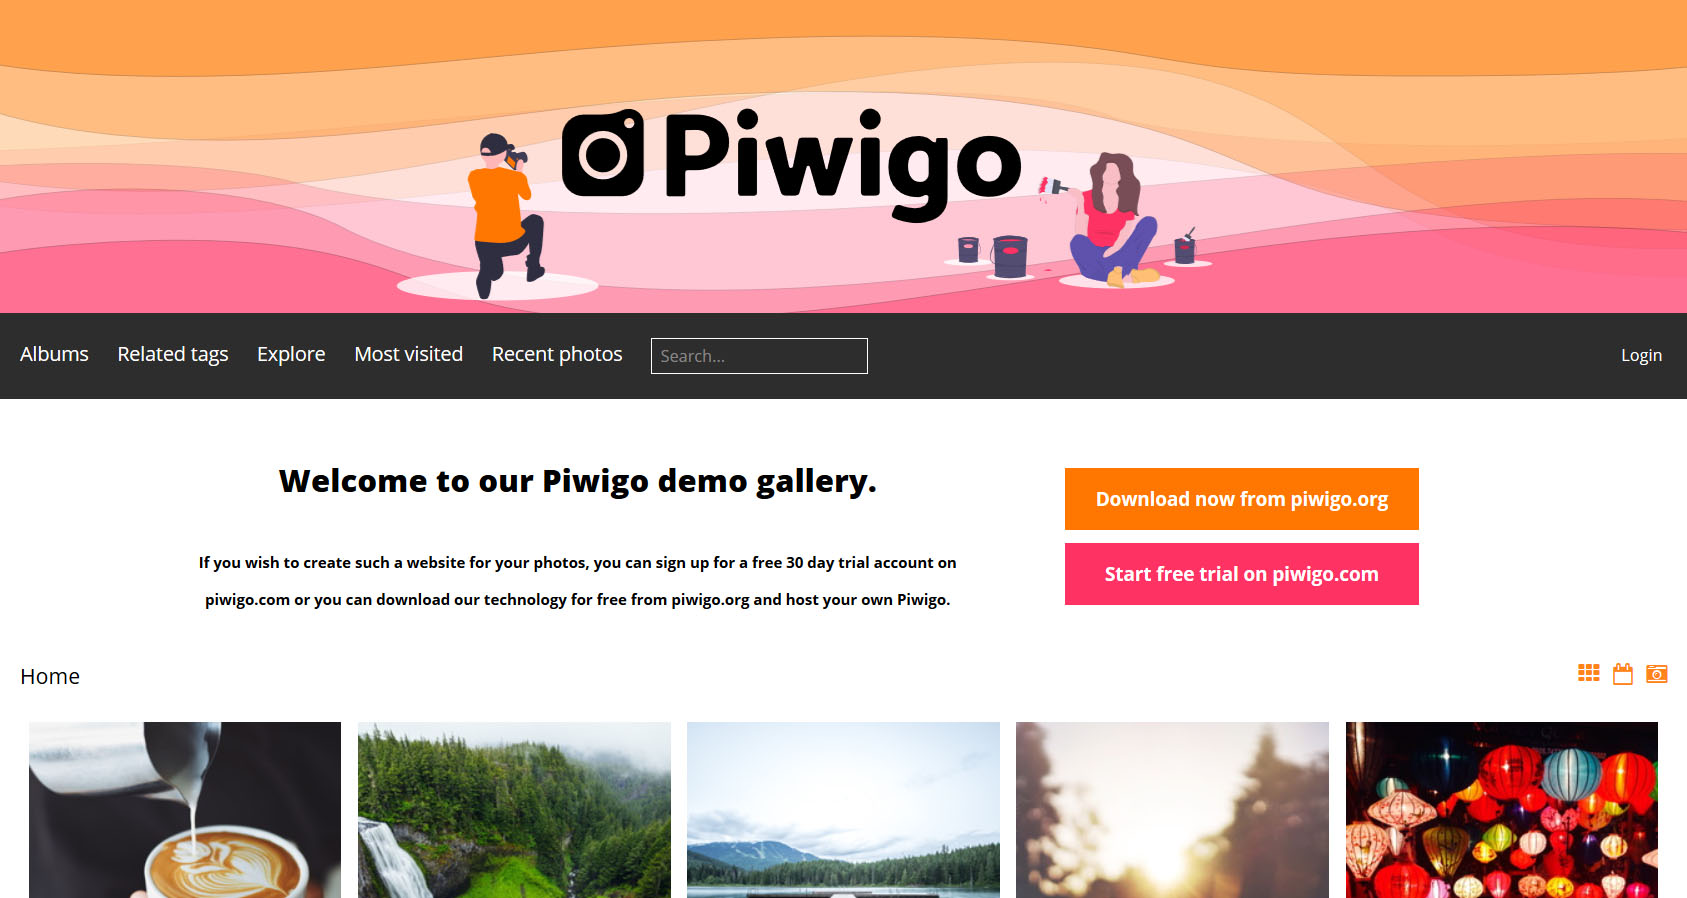
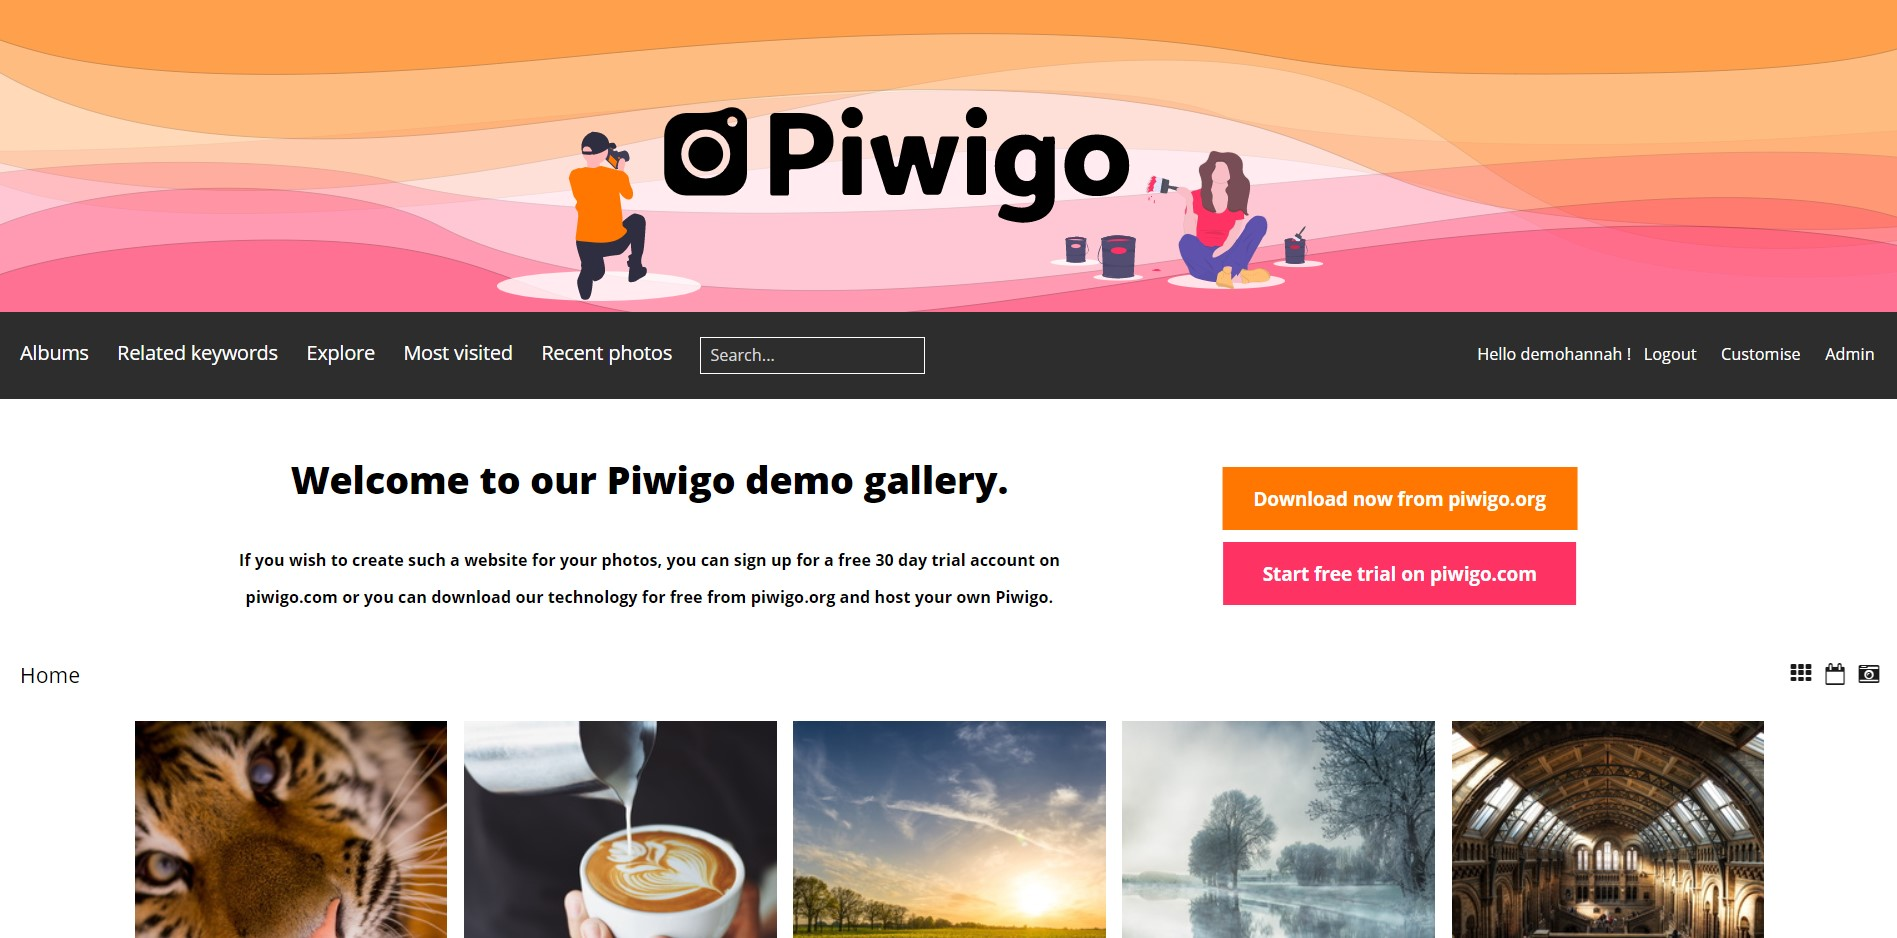
Demo page updates
updates images for 1 and 4 (stil 2 and 3 to be done)
updates links for gallery
Text changed in EN for demos

diff --git a/language/en_UK/demo.lang.php b/language/en_UK/demo.lang.php
@@ -4,13 +4,13 @@ $lang['porg_demo_page_title'] = 'Piwigo demos';
 $lang['porg_demo_into_text'] = 'Discover our piwigo demo galleries. Have a look through them and see how personalisable our galleries our and find out what our technology is capable of.';
 $lang['porg_demo_video_support'] = 'Your browser does not support the video tag.';
 $lang['porg_demo_1_title'] = 'Demo n°1';
-$lang['porg_demo_1_text'] = 'This Piwigo demo gallery is based on our default theme: Modus, with the Newspaper skin. For this demo we have added a banner and an introduction block using the PWG stuff plugin.';
+$lang['porg_demo_1_text'] = 'This Piwigo demo gallery is based on our default theme and skin: Modus Newspaper. For this demo we have added a banner containing an image we designed including our logo. Our introduction text and buttons are added using the plugin PWG stuffs and additional css code.';
 $lang['porg_demo_2_title'] = 'Demo n°2';
-$lang['porg_demo_2_text'] = 'Our second Piwigo demo gallery uses our bootstrap darkroom theme. The color theme here has be personnalised to be accorded with the jumbotron image we have activated with the theme.';
+$lang['porg_demo_2_text'] = 'Our second Piwigo demo gallery uses the default skin from the bootstrap darkroom theme. With this demo we have activated the plugins extended description and additonal pages. These plugins allow us to have a carousel on this galleries homepage.';
 $lang['porg_demo_3_title'] = 'Demo n°3';
-$lang['porg_demo_3_text'] = 'For the third Piwigo demo gallery, we are using Modus with a personnalised skin. in the banner we have simply added our logo with the title of the gallery and used the colors of this specific logo in the gallery.';
+$lang['porg_demo_3_text'] = 'For the third Piwigo demo gallery, our base theme is Modus with the splash skin. We have customised this skin to use specific colors, and we have adapted our logo to match. Using the banner options our logo is added to the top left and on the right we have our gallery name with a introductory text. This galelry has the PWG stuffs plugin actiavted to display a tag block before our albums.';
 $lang['porg_demo_4_title'] = 'Demo n°4';
-$lang['porg_demo_4_text'] = 'The fourth demo gallery uses Bootstrap darkroom with a hero image. The skin used is Cyborg and we have adapted the colors of this theme to match our hero image.';
+$lang['porg_demo_4_text'] = 'The fourth demo gallery uses Bootstrap darkroom with a hero image. We have personnalised the cyborg skin of this theme, to match the picture we have chosen as a Hero image. Another thing we have made unique is buy using a different font for the title of this gallery, and added our logo in the top left corner. Finally we have also customised the banner to contain a login form for our gallery';
 
 
 ?>
